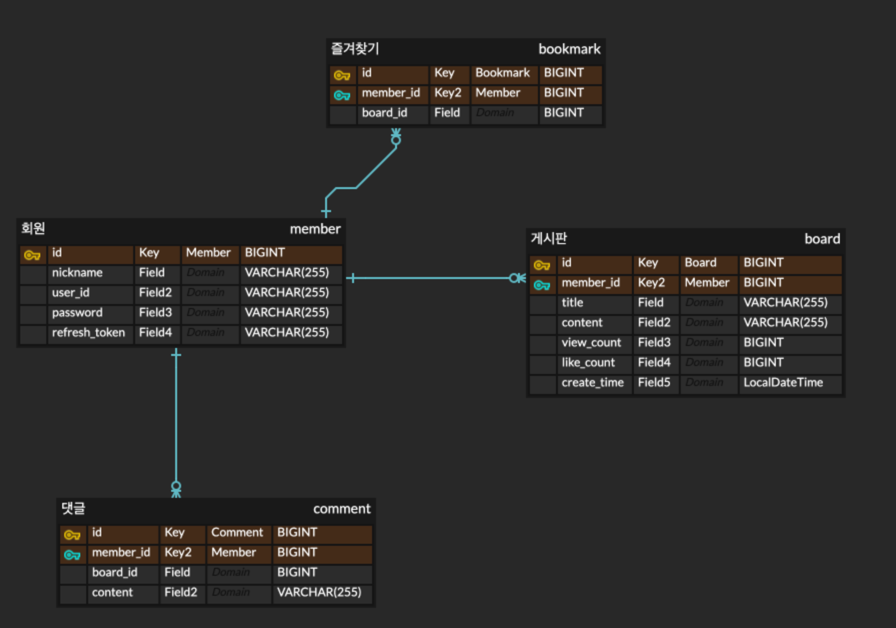
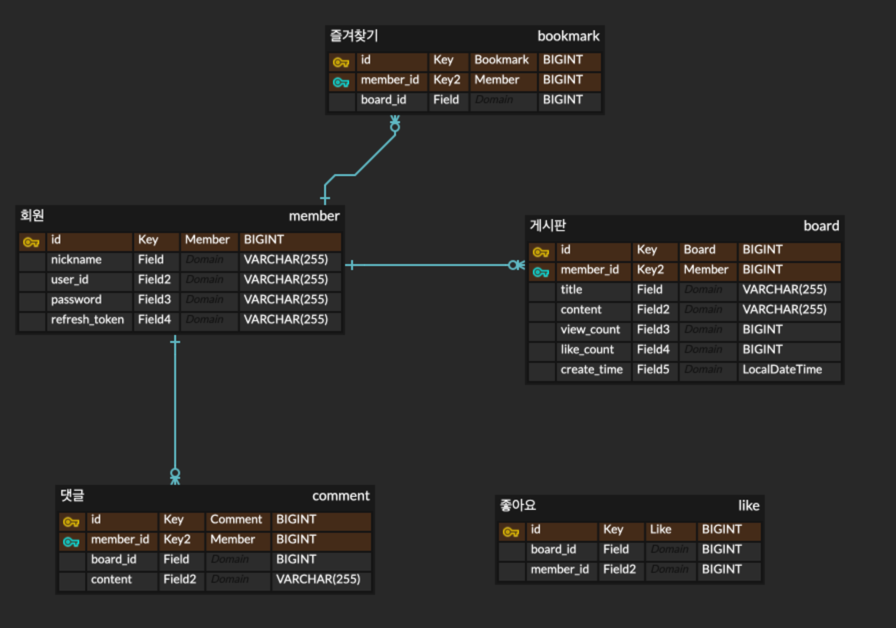
[Docs] ERD 수정

diff --git a/src/main/java/com/example/board/board/entity/Board.java b/src/main/java/com/example/board/board/entity/Board.java
@@ -21,16 +21,16 @@ public class Board {
     @Column(name = "title", nullable = false)
     private String title;
 
-    @Column(name = "content", nullable = false)
+    @Column(name = "content", columnDefinition = "TEXT")
     private String content;
 
-    @Column(name = "view_count")
+    @Column(name = "view_count", nullable = false)
     private int viewCount;
 
-    @Column(name = "like_count")
+    @Column(name = "like_count", nullable = false)
     private int likeCount;
 
-    @Column(name = "create_time")
+    @Column(name = "create_time", nullable = false)
     private LocalDateTime createTime;
 
     @Builder(builderMethodName = "create")

diff --git a/src/main/java/com/example/board/board/controller/BoardController.java b/src/main/java/com/example/board/board/controller/BoardController.java
@@ -18,7 +18,7 @@ public class BoardController {
     private final BoardService boardService;
 
     @PostMapping("/board/create")
-    public ResponseEntity<Board> createBoard(@Valid @RequestBody BoardRequest boardRequest){
+    public ResponseEntity<Board> createBoard(@Valid @RequestBody BoardRequest boardRequest) {
         Board board = boardService.create(boardRequest);
 
         return ResponseEntity.status(HttpStatus.CREATED).body(board);
